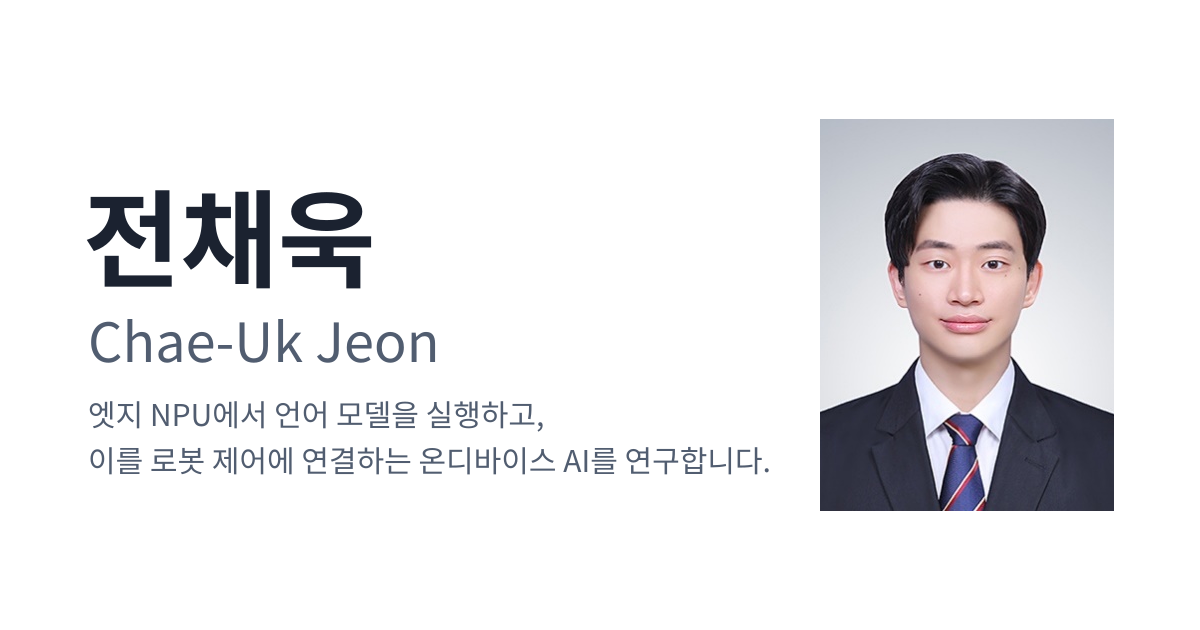
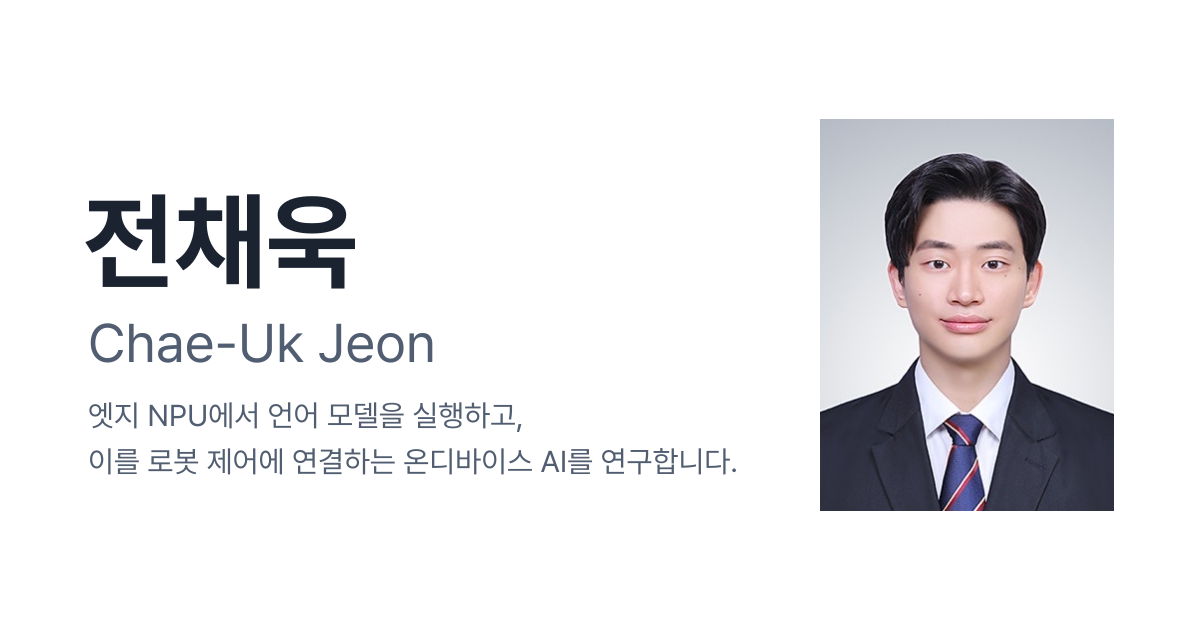
Use self-hosted Pretendard and show initially visible sections

diff --git a/src/styles/global.css b/src/styles/global.css
@@ -15,7 +15,7 @@
   --fs-sub: 1rem;
   --fs-meta: .9375rem;
   --font-mono: ui-monospace, monospace;
-  font-family: 'Noto Sans KR Variable', 'Malgun Gothic', 'Apple SD Gothic Neo', sans-serif;
+  font-family: 'Pretendard Variable', Pretendard, -apple-system, BlinkMacSystemFont, system-ui, 'Apple SD Gothic Neo', 'Malgun Gothic', sans-serif;
   font-synthesis: none;
   line-height: 1.75;
   color: var(--text);
@@ -36,6 +36,7 @@
 body {
   margin: 0;
   font-size: var(--fs-body);
+  font-weight: 400;
   letter-spacing: 0;
   word-break: keep-all;
 }
